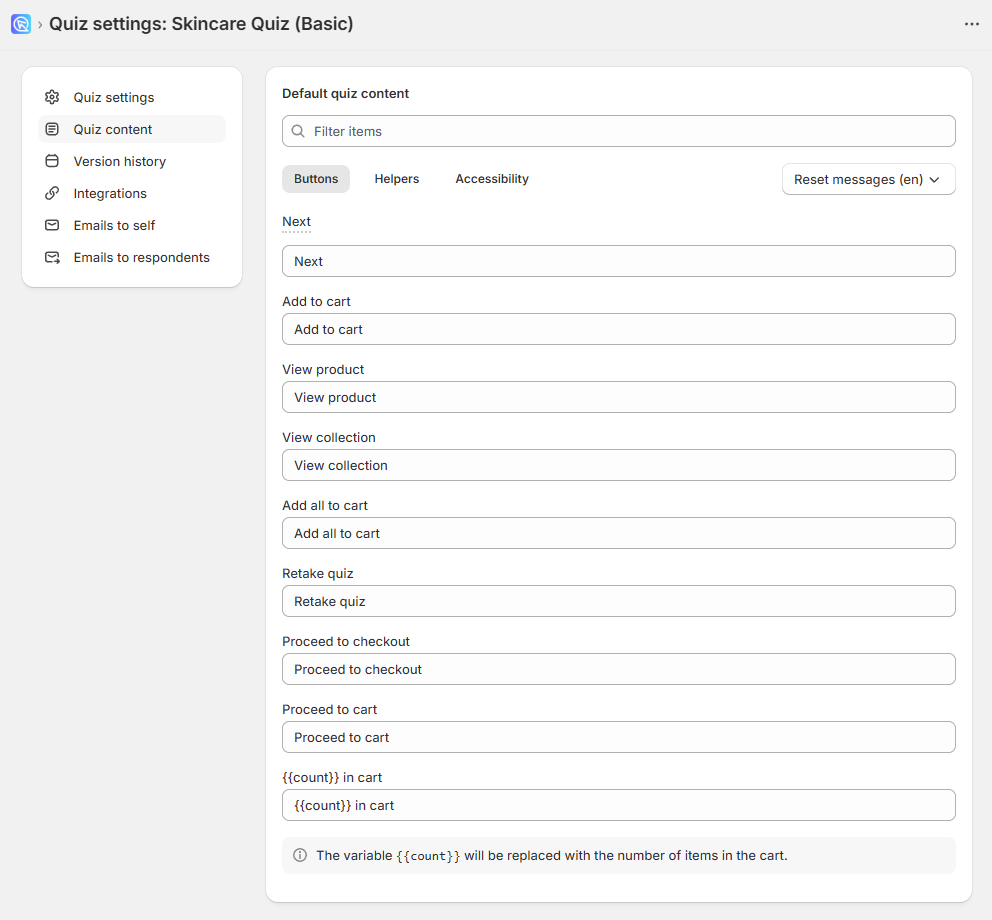
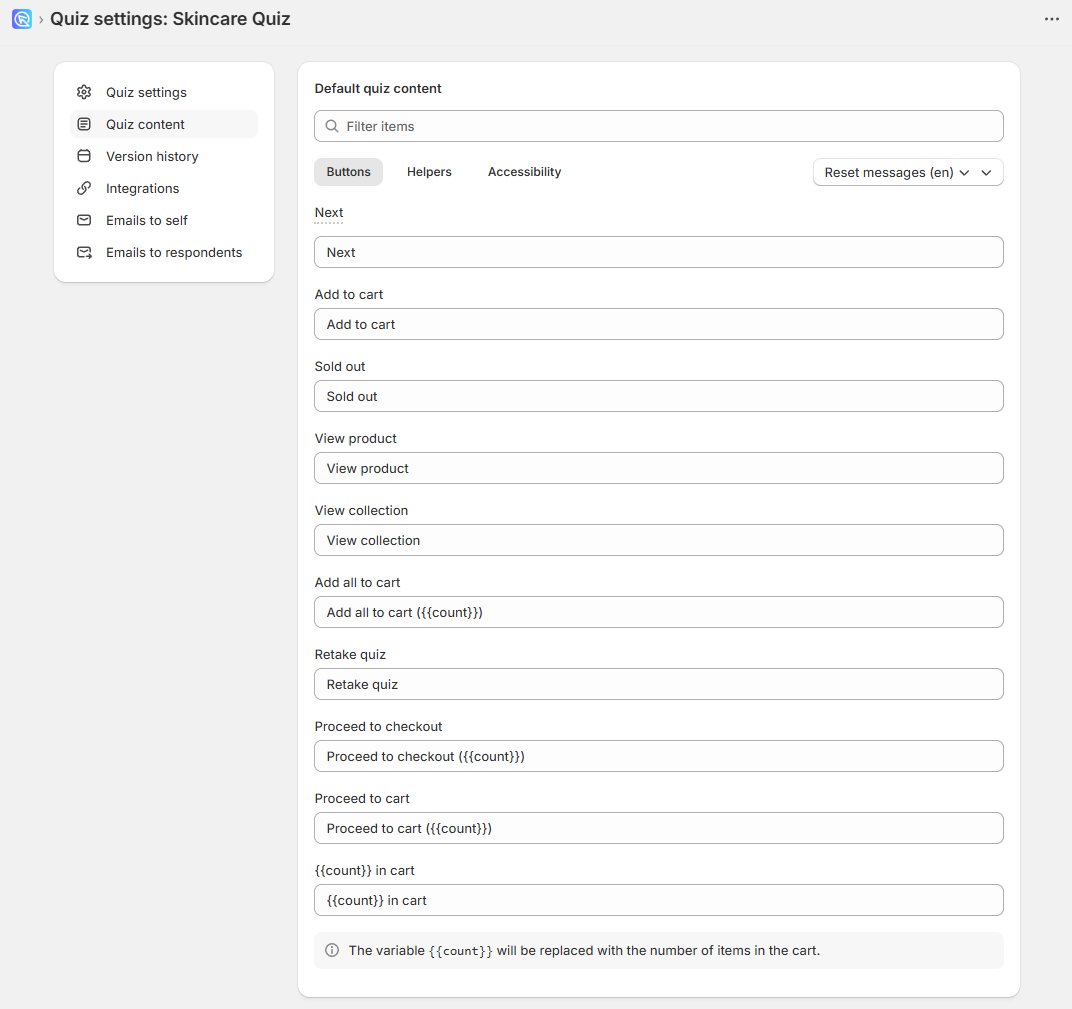
docs: enhance guidance on out-of-stock product handling and clarify inventory filter behavior for better user understanding

Changed region(s): [[0.2812, 0.0609, 0.9375, 0.9435], [0.0312, 0.0609, 0.2188, 0.3043], [0.0, 0.0, 0.3438, 0.0609]]

diff --git a/docs/reference/app-settings.md b/docs/reference/app-settings.md
@@ -207,7 +207,9 @@
 
     `Low inventory Filter` - This setting lets you control which products are eligible to be recommended in the quiz results based on stock levels.
 
-    If you check the `Filter products by inventory level` box, the app will hide any products that are low or out of stock from quiz recommendations. This prevents customers from seeing or clicking on products that are unavailable to purchase. If left unchecked, the app may still recommend products even if they are sold out. Once checked, the **`Minimum stock level`** option will become available. You can set the minimum stock level for products to be eligible for recommendations.
+    **When unchecked (default behavior):** Out-of-stock products will still appear in recommendations, but the "Add to cart" button will automatically display "Sold out" and become disabled. Customers cannot add out-of-stock variants to their cart. The "Sold out" text can be customized in [Quiz Settings > Content](/reference/quiz-builder/quiz-settings/#messages-quiz-content) under **Buttons**.
+
+    **When checked:** If you check the `Filter products by inventory level` box, the app will hide any products that are low or out of stock from quiz recommendations entirely. This prevents customers from seeing products that are unavailable to purchase. Once checked, the **`Minimum stock level`** option will become available. You can set the minimum stock level for products to be eligible for recommendations.
 
     !!! info "How products with multiple variants are handled"
 

diff --git a/docs/how-to-guides/hide-out-of-stock-products.md b/docs/how-to-guides/hide-out-of-stock-products.md
@@ -31,7 +31,14 @@ This guide explains how to hide out-of-stock products from your quiz recommendat
 
     !!! tip "Displaying sold out products instead of hiding them"
 
-        If you prefer to show out-of-stock products with a "Sold out" label instead of hiding them, simply leave the inventory filter unchecked. When a product or variant is out of stock, the "Add to cart" button will automatically display "Sold out" and become disabled. You can customize this label text in [Quiz Settings > Quiz Content](/reference/quiz-builder/quiz-settings/#messages-quiz-content) under **Buttons**.
+        If you prefer to show out-of-stock products with a "Sold out" label instead of hiding them, simply leave the inventory filter unchecked. 
+        
+        **Default behavior for out-of-stock products:**
+        
+        - When a product variant is out of stock, the "Add to cart" button will automatically display "Sold out" and become disabled
+        - Customers will not be able to add out-of-stock variants to their cart
+        - The sold out text can be customized in [Quiz Settings > Content](/reference/quiz-builder/quiz-settings/#messages-quiz-content) under **Buttons**
+        - To completely hide sold out products from recommendations instead, enable the inventory filter in [App settings > Catalogue > Low inventory filter](/reference/app-settings/#catalogue)
 
 === "Shopify (Legacy)"
 

diff --git a/docs/reference/quiz-builder/quiz-settings.md b/docs/reference/quiz-builder/quiz-settings.md
@@ -200,7 +200,7 @@
 
     `Add to cart` - Default text on the product CTA button when checkout settings are set to "Add to Cart". | Results Page
 
-    `Sold out` - Default text on the product CTA button when a product or selected variant is out of stock (following Shopify's terminology). | Results Page
+    `Sold out` - Default text on the product CTA button when a product or selected variant is out of stock. | Results Page
 
     `View product` - Default text on the product CTA button when checkout settings are set to "Link to Product". | Results Page
 
